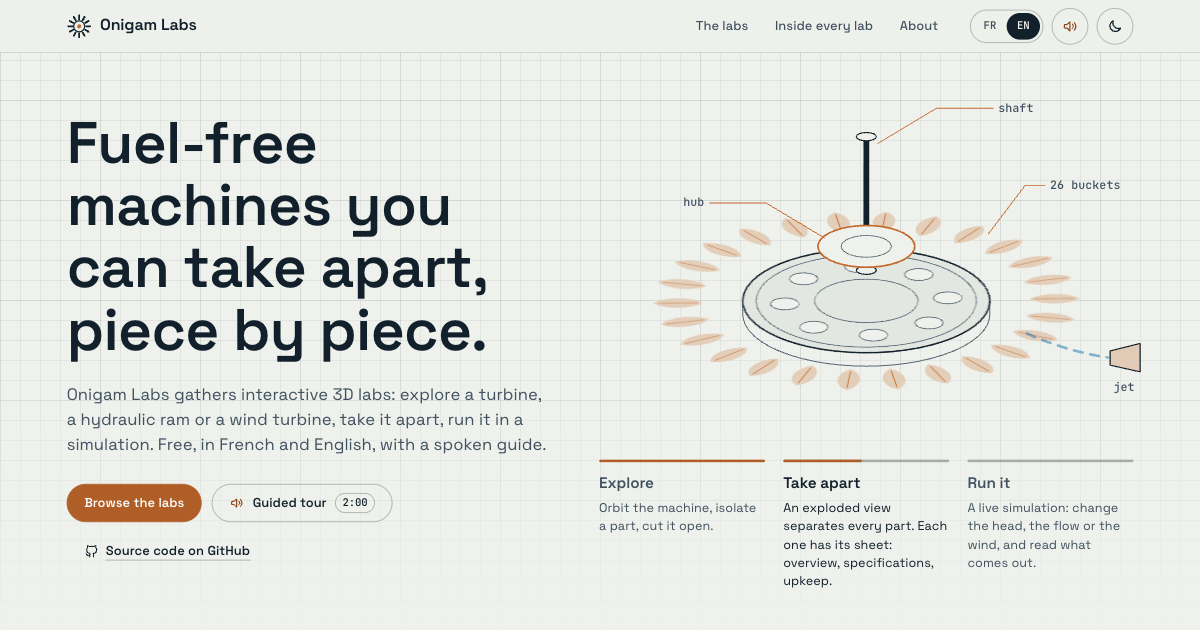
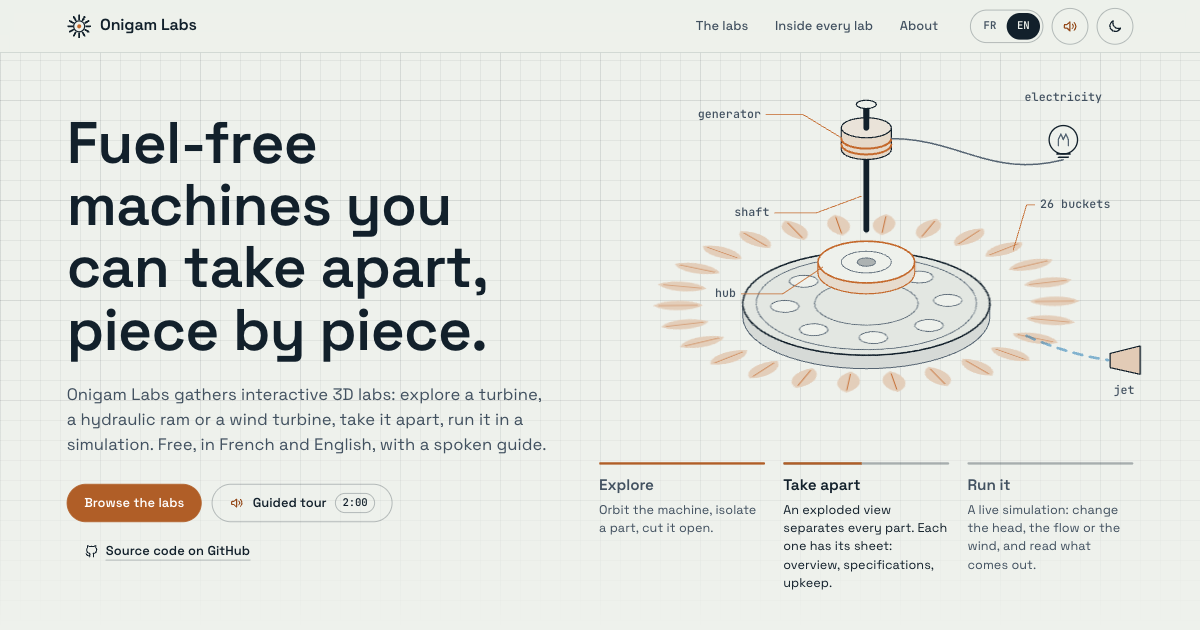
Hero drawing: correct depth for the shaft, a generator and a lamp for electricity
The shaft is now drawn in two parts around the wheel's plane (behind the wheel
below it, in front above it) so it passes through the wheel and comes out of the
hub. It carries a generator; at the last step the wheel is back together, sparks
run along the cable and the lamp lights. Notes enlarged on phones.

diff --git a/src/render/runner.ts b/src/render/runner.ts
@@ -3,12 +3,22 @@ import { esc } from './html';
 
 const BUCKETS = 26;
 
+/** Where the cable leaves the generator (which rides on the shaft) and reaches the lamp, for an explosion of `e`. */
+export function cablePath(e: number): string {
+  const y = (-49 - 150 * e).toFixed(1);
+  return `M30 ${y}C110 ${y} 150 -150 236 -172`;
+}
+
 /**
  * A Pelton runner drawn as a technical diagram, seen at an angle: the wheel is a flattened disc (so it can spin and
- * its buckets can fan out radially), the hub and the shaft lift off along the axis. The page drives it with two CSS
- * variables set on the wrapper: `--e` (how exploded, 0 to 1) and `--p` (scroll progress, which also turns the wheel).
+ * its buckets can fan out radially), the hub and the shaft lift off along the axis, and the shaft carries a generator
+ * that lights a lamp once the wheel runs. The page drives it with two CSS variables set on the wrapper: `--e` (how
+ * exploded, 0 to 1) and `--p` (scroll progress, which also turns the wheel), and with `data-stage` on the hero.
+ *
+ * Depth, bottom to top: the part of the shaft under the wheel's plane (hidden by the wheel), the wheel, the hub, the
+ * part of the shaft above the plane (so the shaft passes through the wheel and comes out of the hub), the lamp.
  */
-export function runnerSvg(t: Dict['hero']['drawing']): string {
+export function runnerSvg(t: Dict['hero']['drawing'], e = 0.55): string {
   const buckets = Array.from({ length: BUCKETS }, (_, i) => {
     const a = ((360 / BUCKETS) * i).toFixed(3);
     return `<g class="rn-bucket" style="--a:${a}deg;--i:${i}"><use href="#rn-petal"/></g>`;
@@ -17,8 +27,15 @@ export function runnerSvg(t: Dict['hero']['drawing']): string {
     const a = (Math.PI * 2 * i) / 8;
     return `<circle cx="${(Math.sin(a) * 98).toFixed(1)}" cy="${(-Math.cos(a) * 98).toFixed(1)}" r="17"/>`;
   }).join('');
+  const rays = Array.from({ length: 8 }, (_, i) => {
+    const a = (Math.PI * 2 * i) / 8 + Math.PI / 8;
+    const [s, c] = [Math.sin(a), Math.cos(a)];
+    return `M${(s * 27).toFixed(1)} ${(-c * 27).toFixed(1)}L${(s * 37).toFixed(1)} ${(-c * 37).toFixed(1)}`;
+  }).join('');
+  const rod = (y1: number, y2: number): string => `<path class="rn-rod" d="M0 ${y1}V${y2}"/>`;
+  const cable = cablePath(e);
 
-  return `<svg class="rn" viewBox="-320 -250 640 410" role="presentation" focusable="false">
+  return `<svg class="rn" viewBox="-320 -255 640 415" role="presentation" focusable="false">
   <defs>
     <g id="rn-petal">
       <path class="rn-petal-body" d="M0-150C17-163 19-196 0-210C-19-196-17-163 0-150Z"/>
@@ -27,58 +44,88 @@ export function runnerSvg(t: Dict['hero']['drawing']): string {
     <marker id="rn-tick" viewBox="0 0 6 10" refX="3" refY="5" markerWidth="6" markerHeight="10" orient="auto">
       <path d="M3 0V10" fill="none" stroke="currentColor" stroke-width="1.4"/>
     </marker>
+    <clipPath id="rn-below"><rect x="-400" y="0" width="800" height="400"/></clipPath>
+    <clipPath id="rn-above"><rect x="-400" y="-400" width="800" height="400"/></clipPath>
   </defs>
-  <g>
-    <!-- the wheel, flattened -->
-    <g class="rn-edge">
-      <path d="M-148 0V16M148 0V16"/>
-      <path d="M-148 16A148 62.2 0 0 0 148 16"/>
-    </g>
-    <g transform="scale(1 .42)">
-      <g class="rn-idle"><g class="rn-turn">
-        <circle class="rn-web" r="148"/>
-        <circle class="rn-line" r="132"/>
-        <circle class="rn-line" r="62"/>
-        <g class="rn-holes">${holes}</g>
-        ${buckets}
-      </g></g>
-    </g>
 
-    <!-- the jet -->
-    <g class="rn-jet">
-      <path class="rn-nozzle" d="M292 60L328 51L328 85L292 77Z"/>
-      <path class="rn-stream" d="M290 68C256 63 220 52 190 38"/>
-      <text class="rn-note-text" x="296" y="108">${esc(t.jet)}</text>
-    </g>
+  <!-- the shaft below the wheel's plane: the wheel hides it -->
+  <g clip-path="url(#rn-below)"><g class="rn-shaft">${rod(60, -90)}</g></g>
 
-    <!-- the hub and the shaft lift off along the axis -->
-    <g class="rn-shaft">
-      <path class="rn-rod" d="M0 -78V82"/>
-      <ellipse class="rn-cap" cx="0" cy="-78" rx="12" ry="5"/>
-      <ellipse class="rn-cap" cx="0" cy="82" rx="12" ry="5"/>
-      <g class="rn-note">
-        <path class="rn-leader" d="M14 -70L84 -112H152"/>
-        <text class="rn-note-text" x="158" y="-108">${esc(t.shaft)}</text>
-      </g>
-    </g>
-    <g class="rn-hub">
-      <ellipse class="rn-hub-body" cx="0" cy="0" rx="58" ry="25"/>
-      <ellipse class="rn-line" cx="0" cy="0" rx="30" ry="13"/>
-      <g class="rn-note">
-        <path class="rn-leader" d="M-50 -10L-120 -52H-188"/>
-        <text class="rn-note-text rn-note-text--end" x="-194" y="-48">${esc(t.hub)}</text>
-      </g>
-    </g>
+  <!-- the wheel, flattened -->
+  <g class="rn-edge">
+    <path class="rn-wall" d="M-148 0V16A148 62.2 0 0 0 148 16V0Z"/>
+  </g>
+  <g transform="scale(1 .42)">
+    <g class="rn-idle"><g class="rn-turn">
+      <circle class="rn-web" r="148"/>
+      <circle class="rn-line" r="132"/>
+      <circle class="rn-line" r="62"/>
+      <g class="rn-holes">${holes}</g>
+      ${buckets}
+    </g></g>
+  </g>
 
-    <!-- notes -->
-    <g class="rn-note rn-note--buckets">
-      <path class="rn-leader" d="M146 -80L190 -138H214"/>
-      <text class="rn-note-text" x="220" y="-134">${esc(t.buckets)}</text>
+  <!-- the jet -->
+  <g class="rn-jet">
+    <path class="rn-nozzle" d="M292 60L328 51L328 85L292 77Z"/>
+    <path class="rn-stream" d="M290 68C256 63 220 52 190 38"/>
+    <text class="rn-note-text" x="296" y="108">${esc(t.jet)}</text>
+  </g>
+
+  <!-- the hub lifts off first -->
+  <g class="rn-hub">
+    <path class="rn-hub-wall" d="M-58 0V13A58 25 0 0 0 58 13V0"/>
+    <ellipse class="rn-hub-body" cx="0" cy="0" rx="58" ry="25"/>
+    <ellipse class="rn-line" cx="0" cy="0" rx="30" ry="13"/>
+    <ellipse class="rn-bore" cx="0" cy="0" rx="11" ry="5"/>
+    <g class="rn-note">
+      <path class="rn-leader" d="M-52 6L-100 38H-150"/>
+      <text class="rn-note-text rn-note-text--end" x="-156" y="42">${esc(t.hub)}</text>
     </g>
-    <g class="rn-dim">
-      <path class="rn-dim-line" d="M-206 142H206" marker-start="url(#rn-tick)" marker-end="url(#rn-tick)"/>
-      <text class="rn-dim-text" x="0" y="132" text-anchor="middle">${esc(t.diameter)}</text>
+  </g>
+
+  <!-- the shaft above the plane: it goes through the wheel and out of the hub, and carries the generator -->
+  <g clip-path="url(#rn-above)"><g class="rn-shaft">
+    ${rod(60, -90)}
+    <g class="rn-gen">
+      <path class="rn-gen-body" d="M-30 -62V-36A30 12 0 0 0 30 -36V-62"/>
+      <ellipse class="rn-gen-top" cx="0" cy="-62" rx="30" ry="12"/>
+      <path class="rn-gen-coil" d="M-30 -49A30 12 0 0 0 30 -49"/>
+      <path class="rn-gen-coil" d="M-30 -42A30 12 0 0 0 30 -42"/>
     </g>
+    ${rod(-62, -90)}
+    <ellipse class="rn-cap" cx="0" cy="-90" rx="12" ry="5"/>
+    <g class="rn-note">
+      <path class="rn-leader" d="M-6 20L-60 40H-110"/>
+      <text class="rn-note-text rn-note-text--end" x="-116" y="44">${esc(t.shaft)}</text>
+    </g>
+    <g class="rn-note">
+      <path class="rn-leader" d="M-30 -50L-76 -78H-120"/>
+      <text class="rn-note-text rn-note-text--end" x="-126" y="-74">${esc(t.generator)}</text>
+    </g>
+  </g></g>
+
+  <!-- electricity: a cable from the generator to a lamp that lights when the wheel runs -->
+  <g class="rn-power">
+    <path class="rn-cable" d="${cable}"/>
+    <path class="rn-sparks" d="${cable}"/>
+    <g transform="translate(236 -196)">
+      <g class="rn-glow"><circle r="34"/><path d="${rays}"/></g>
+      <circle class="rn-bulb" r="17"/>
+      <path class="rn-filament" d="M-6 7V0L-3 -7L0 0L3 -7L6 0V7"/>
+      <path class="rn-socket" d="M-8 17H8M-6 21H6"/>
+      <text class="rn-note-text rn-power-text" x="0" y="-46" text-anchor="middle">${esc(t.power)}</text>
+    </g>
+  </g>
+
+  <!-- notes -->
+  <g class="rn-note rn-note--buckets">
+    <path class="rn-leader" d="M176 -64L192 -118H202"/>
+    <text class="rn-note-text" x="208" y="-114">${esc(t.buckets)}</text>
+  </g>
+  <g class="rn-dim">
+    <path class="rn-dim-line" d="M-206 142H206" marker-start="url(#rn-tick)" marker-end="url(#rn-tick)"/>
+    <text class="rn-dim-text" x="0" y="132" text-anchor="middle">${esc(t.diameter)}</text>
   </g>
 </svg>`;
 }

diff --git a/src/styles/hero.css b/src/styles/hero.css
@@ -62,7 +62,8 @@
   stroke: var(--ink-3) !important;
   stroke-width: 1 !important;
 }
-.rn-edge path {
+.rn .rn-wall {
+  fill: color-mix(in srgb, var(--ink) 11%, var(--bg));
   stroke: var(--ink-3);
   stroke-width: 1.2;
 }
@@ -83,23 +84,110 @@
   transform: rotate(calc(var(--p) * 600deg));
 }
 .rn-hub {
-  transform: translateY(calc(var(--e) * -66px));
+  transform: translateY(calc(var(--e) * -50px));
 }
-.rn-hub-body {
-  fill: var(--bg) !important;
-  stroke: var(--copper) !important;
-  stroke-width: 2 !important;
+.rn .rn-hub-body {
+  fill: var(--bg);
+  stroke: var(--copper);
+  stroke-width: 2;
+}
+.rn .rn-hub-wall {
+  fill: color-mix(in srgb, var(--copper) 16%, var(--bg));
+  stroke: var(--copper);
+  stroke-width: 1.4;
+}
+.rn .rn-bore {
+  fill: color-mix(in srgb, var(--ink) 30%, var(--bg));
+  stroke: var(--ink-3);
+  stroke-width: 1;
 }
 .rn-shaft {
-  transform: translateY(calc(var(--e) * -120px));
+  transform: translateY(calc(var(--e) * -150px));
 }
-.rn-rod {
-  stroke-width: 7 !important;
-  stroke: var(--ink) !important;
+.rn .rn-rod {
+  stroke-width: 7;
+  stroke: var(--ink);
 }
-.rn-cap {
-  fill: var(--bg) !important;
+.rn .rn-cap {
+  fill: var(--bg);
   stroke-width: 1.4;
+}
+/* the generator on the shaft, and the electricity it makes */
+.rn .rn-gen-body {
+  fill: color-mix(in srgb, var(--copper) 18%, var(--bg));
+  stroke: var(--ink);
+  stroke-width: 1.4;
+}
+.rn .rn-gen-top {
+  fill: color-mix(in srgb, var(--copper) 10%, var(--bg));
+  stroke: var(--ink);
+  stroke-width: 1.4;
+}
+.rn .rn-gen-coil {
+  stroke: var(--copper);
+  stroke-width: 2.4;
+}
+.rn .rn-cable {
+  stroke: var(--ink-3);
+  stroke-width: 1.8;
+}
+.rn .rn-sparks {
+  stroke: var(--electricity);
+  stroke-width: 4;
+  stroke-dasharray: 1 13;
+  opacity: 0;
+  transition: opacity 0.4s;
+}
+.rn .rn-bulb {
+  fill: var(--bg);
+  stroke: var(--ink);
+  stroke-width: 1.6;
+  transition: fill 0.4s;
+}
+.rn .rn-filament {
+  stroke: var(--ink-3);
+  stroke-width: 1.6;
+  transition: stroke 0.4s;
+}
+.rn .rn-socket {
+  stroke: var(--ink);
+  stroke-width: 2;
+}
+.rn .rn-glow {
+  opacity: 0;
+  transition: opacity 0.5s;
+}
+.rn .rn-glow circle {
+  fill: color-mix(in srgb, var(--electricity) 30%, transparent);
+  stroke: none;
+}
+.rn .rn-glow path {
+  stroke: var(--electricity);
+  stroke-width: 2.4;
+}
+.hero[data-stage='3'] .rn-sparks {
+  opacity: 1;
+  animation: rn-spark 0.8s linear infinite;
+}
+.hero[data-stage='3'] .rn-glow {
+  opacity: 1;
+}
+.hero[data-stage='3'] .rn-bulb {
+  fill: color-mix(in srgb, var(--electricity) 55%, var(--bg));
+}
+.hero[data-stage='3'] .rn-filament {
+  stroke: var(--ink);
+}
+.rn .rn-power-text {
+  fill: var(--ink-2);
+}
+.hero[data-stage='3'] .rn .rn-power-text {
+  fill: var(--ink);
+}
+@keyframes rn-spark {
+  to {
+    stroke-dashoffset: -28;
+  }
 }
 .rn-nozzle {
   fill: color-mix(in srgb, var(--copper) 28%, var(--bg)) !important;
@@ -255,5 +343,13 @@
   .hero__grid {
     grid-template-columns: minmax(0, 1fr) minmax(0, 1.1fr);
     align-items: center;
+  }
+}
+
+/* on a phone the drawing is about half size: the notes need larger type to stay readable */
+@media (max-width: 639px) {
+  .rn-note-text,
+  .rn-dim-text {
+    font-size: 18px;
   }
 }

diff --git a/src/behaviors/story.ts b/src/behaviors/story.ts
@@ -1,3 +1,5 @@
+import { cablePath } from '../render/runner';
+
 // The hero story: scroll progress (0 to 1) drives how far the runner comes apart and how far it has turned.
 //   wide screens  : the hero is pinned for a few screens of scrolling (CSS), progress follows the scroll;
 //   small screens : no pin, progress follows the runner crossing the viewport;
@@ -14,7 +16,8 @@ const STAGES: ReadonlyArray<readonly [number, number]> = [
   [0.34, 0.68],
   [0.68, 1],
 ];
-const explosion = (p: number): number => 0.06 + 0.94 * smooth(0.2, 0.52, p) * (1 - 0.9 * smooth(0.72, 0.94, p));
+// comes apart, then goes back together for the last step (fully assembled at the end, so the lamp can light)
+const explosion = (p: number): number => (0.06 + 0.94 * smooth(0.2, 0.52, p)) * (1 - smooth(0.72, 0.94, p));
 /** The state a step shows when it is picked by hand (reduced motion). */
 const MANUAL = [0.08, 1, 0.1];
 
@@ -28,6 +31,7 @@ export function initStory(hero: HTMLElement): Story | null {
   const pin = hero.querySelector<HTMLElement>('.hero__pin');
   const figure = hero.querySelector<HTMLElement>('.hero__figure');
   const steps = [...hero.querySelectorAll<HTMLElement>('.step')];
+  const wires = [...hero.querySelectorAll<SVGPathElement>('.rn-cable, .rn-sparks')];
   if (!runner || !pin || !figure) return null;
 
   const reduce = matchMedia('(prefers-reduced-motion: reduce)');
@@ -44,6 +48,9 @@ export function initStory(hero: HTMLElement): Story | null {
   const paint = (): void => {
     runner.style.setProperty('--e', e.toFixed(4));
     runner.style.setProperty('--p', p.toFixed(4));
+    // the generator rides on the shaft, so the cable to the lamp follows it
+    const wire = cablePath(e);
+    wires.forEach((w) => w.setAttribute('d', wire));
     const stage = STAGES.findIndex(([, b]) => targetP < b);
     const active = stage === -1 ? 2 : stage;
     hero.dataset.stage = String(active + 1);

diff --git a/src/i18n/fr.ts b/src/i18n/fr.ts
@@ -41,6 +41,8 @@ export const fr = {
       buckets: '26 augets',
       diameter: 'Ø 244 mm',
       hub: 'moyeu',
+      generator: 'génératrice',
+      power: 'électricité',
       shaft: 'arbre',
       jet: 'jet',
     },

diff --git a/src/i18n/en.ts b/src/i18n/en.ts
@@ -43,6 +43,8 @@ export const en: Dict = {
       buckets: '26 buckets',
       diameter: 'Ø 244 mm',
       hub: 'hub',
+      generator: 'generator',
+      power: 'electricity',
       shaft: 'shaft',
       jet: 'jet',
     },

diff --git a/docs/design.md b/docs/design.md
@@ -4,7 +4,9 @@ The direction in a few lines, so a later change keeps the spirit.
 
 **Idea.** The site is the front door of labs whose signature is the _exploded view_. So the one memorable thing is the hero: a
 Pelton runner drawn as a technical diagram that turns and comes apart as you scroll (step 1 explore, step 2 take apart, step 3
-run it). Everything else is quiet and disciplined: a drafting sheet, hairlines, one accent.
+run it). Depth is drawn properly (the shaft passes through the wheel and comes out of the hub: the part under the wheel's plane is
+drawn behind it, the part above in front), and the shaft carries a generator whose cable lights a lamp at step 3, so the last step
+says what the machine is for. Everything else is quiet and disciplined: a drafting sheet, hairlines, one accent.
 
 **Link with the labs, without copying them.** Same paper grid and same copper accent, same JetBrains Mono for figures. The paper is
 a cooler mineral off-white (`#eef1ec`) instead of the labs' warm cream, ink is a blue-black, and the type is the labs' own pair, Space Grotesk and
